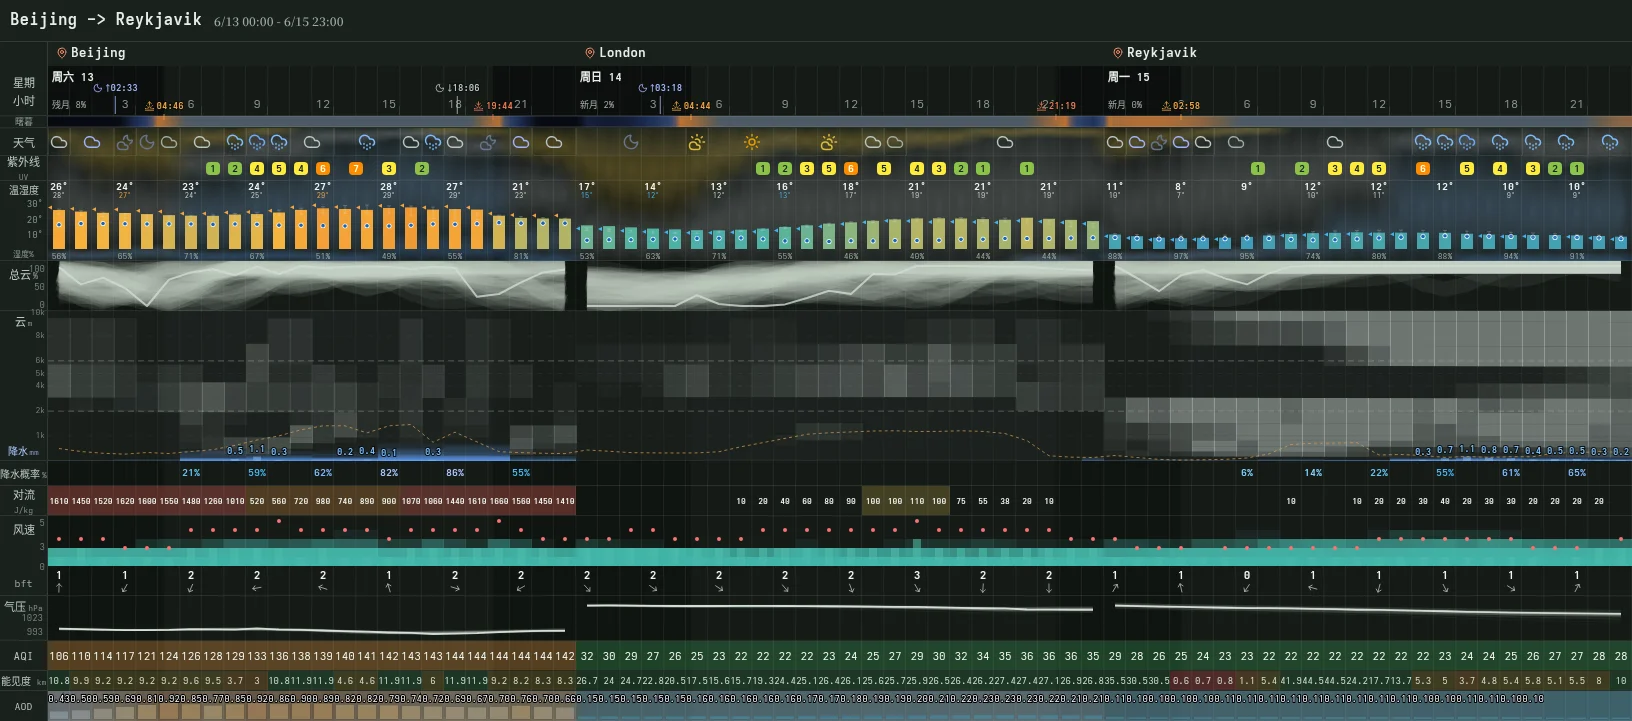
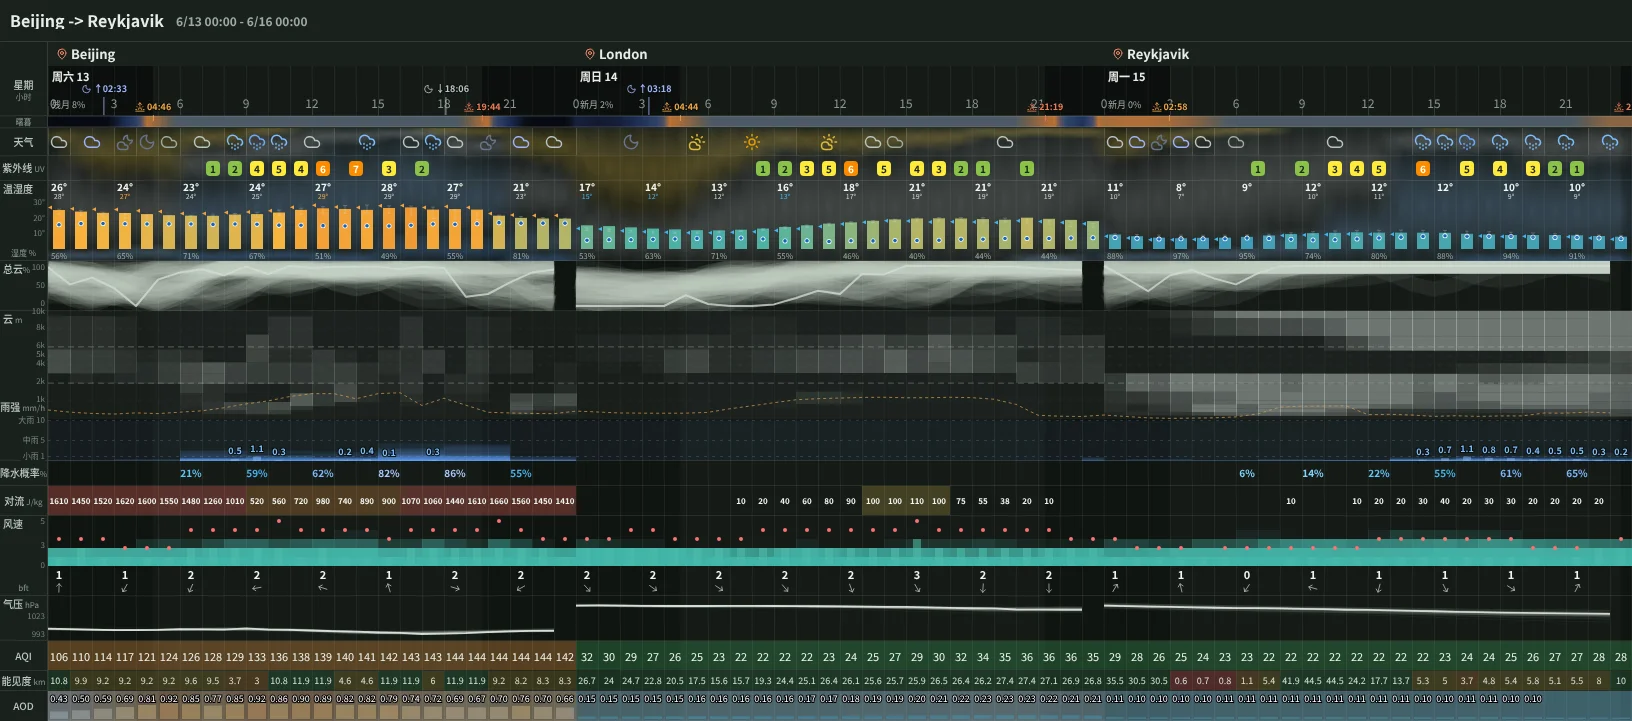
docs: update screenshot

diff --git a/scripts/capture-screenshot.ts b/scripts/capture-screenshot.ts
@@ -7,6 +7,7 @@
  *   tsx scripts/capture-screenshot.ts
  *   tsx scripts/capture-screenshot.ts --capture 72 --themes dark,light
  *   tsx scripts/capture-screenshot.ts --capture 48 --theme dark --output demo.webp
+ *   tsx scripts/capture-screenshot.ts --features 0
  */
 
 import { resolve, dirname } from 'node:path';
@@ -40,6 +41,8 @@ const captureHours = Number(readArg('capture') ?? '72');
 const portStr = readArg('port') ?? '0';
 const outputName = readArg('output');
 const viewport = readArg('viewport') ?? '1920x1080';
+const includeFeatureScreenshots =
+  readArg('features') !== '0' && outputName == null && fixtureName === 'default';
 
 // Determine which themes to generate
 const themeArg = readArg('theme');
@@ -95,6 +98,94 @@ async function pngToWebpInBrowser(page: Page, pngBuf: Buffer): Promise<Buffer> {
   return Buffer.from(bytes);
 }
 
+function saveWebp(output: string, image: Buffer): void {
+  const outPath = resolve(__dirname, '..', output);
+  writeFileSync(outPath, image);
+  console.log(`  Saved: ${outPath}`);
+}
+
+const FEATURE_VIEWPORT = { width: 1440, height: 900 };
+
+const CITY_COORDINATES: Record<string, { latitude: number; longitude: number }> = {
+  Beijing: { latitude: 39.9042, longitude: 116.4074 },
+  London: { latitude: 51.5074, longitude: -0.1278 },
+  Reykjavik: { latitude: 64.1466, longitude: -21.9426 },
+  Tokyo: { latitude: 35.6762, longitude: 139.6503 },
+};
+
+const CLOUD_LEVELS = [
+  { pressure: 1000, altitude: 36, cover: [0, 0, 5, 10, 15, 10, 5, 0, 0, 0, 0] },
+  { pressure: 975, altitude: 259, cover: [5, 10, 20, 35, 50, 70, 80, 65, 35, 10, 0] },
+  { pressure: 950, altitude: 487, cover: [10, 15, 30, 55, 75, 90, 95, 75, 45, 20, 5] },
+  { pressure: 925, altitude: 721, cover: [5, 20, 45, 70, 90, 95, 85, 60, 35, 15, 5] },
+  { pressure: 900, altitude: 959, cover: [0, 10, 35, 60, 80, 90, 75, 45, 20, 5, 0] },
+  { pressure: 850, altitude: 1452, cover: [0, 5, 20, 40, 60, 75, 55, 30, 10, 0, 0] },
+  { pressure: 800, altitude: 1967, cover: [0, 0, 5, 15, 30, 45, 55, 45, 25, 10, 0] },
+  { pressure: 700, altitude: 3077, cover: [0, 0, 5, 15, 35, 55, 75, 90, 80, 50, 20] },
+  { pressure: 600, altitude: 4315, cover: [5, 10, 20, 35, 55, 70, 85, 95, 90, 70, 45] },
+  { pressure: 500, altitude: 5731, cover: [20, 30, 45, 60, 75, 85, 90, 85, 70, 50, 30] },
+  { pressure: 400, altitude: 7396, cover: [35, 45, 55, 65, 70, 75, 80, 85, 90, 85, 70] },
+  { pressure: 300, altitude: 9431, cover: [55, 60, 65, 70, 75, 80, 85, 90, 95, 90, 80] },
+  { pressure: 250, altitude: 10650, cover: [45, 50, 55, 65, 75, 85, 90, 90, 85, 75, 60] },
+  { pressure: 200, altitude: 12077, cover: [20, 25, 35, 45, 60, 70, 75, 70, 60, 45, 30] },
+] as const;
+
+function sunCloudFixtureResponse(): unknown[] {
+  return Array.from({ length: 11 }, (_, index) => {
+    const hourly: Record<string, Array<string | number>> = {
+      time: ['2026-06-13T05:00'],
+      cloud_cover_low: [
+        Math.max(...CLOUD_LEVELS.slice(0, 6).map((level) => level.cover[index] ?? 0)),
+      ],
+      cloud_cover_mid: [
+        Math.max(...CLOUD_LEVELS.slice(6, 10).map((level) => level.cover[index] ?? 0)),
+      ],
+      cloud_cover_high: [
+        Math.max(...CLOUD_LEVELS.slice(10).map((level) => level.cover[index] ?? 0)),
+      ],
+    };
+
+    for (const level of CLOUD_LEVELS) {
+      hourly[`cloud_cover_${level.pressure}hPa`] = [level.cover[index] ?? 0];
+      hourly[`geopotential_height_${level.pressure}hPa`] = [level.altitude];
+    }
+
+    return {
+      latitude: 39.9042 + index * 0.08,
+      longitude: 116.4074 + index * 0.22,
+      utc_offset_seconds: 8 * 60 * 60,
+      hourly,
+    };
+  });
+}
+
+async function installFeatureScreenshotRoutes(page: Page): Promise<void> {
+  await page.route('**/fixtures/*.json', async (route) => {
+    const response = await route.fetch();
+    const fixture = (await response.json()) as {
+      points?: Array<{
+        cityName?: string;
+        latitude?: number;
+        longitude?: number;
+      }>;
+    };
+
+    for (const point of fixture.points ?? []) {
+      if (!point.cityName) continue;
+      const coordinates = CITY_COORDINATES[point.cityName];
+      if (!coordinates) continue;
+      point.latitude ??= coordinates.latitude;
+      point.longitude ??= coordinates.longitude;
+    }
+
+    await route.fulfill({ response, json: fixture });
+  });
+
+  await page.route(/https:\/\/api\.open-meteo\.com\/v1\/forecast/, async (route) => {
+    await route.fulfill({ json: sunCloudFixtureResponse() });
+  });
+}
+
 // ---------------------------------------------------------------------------
 // Main
 // ---------------------------------------------------------------------------
@@ -137,6 +228,34 @@ async function captureTheme(theme: string, serverPort: number): Promise<void> {
   console.log(`  [${theme}] Saved: ${outPath}`);
 }
 
+async function captureFeatureScreenshots(theme: string, serverPort: number): Promise<void> {
+  const browser = await chromium.launch();
+  const page = await browser.newPage({ viewport: FEATURE_VIEWPORT });
+  await installFeatureScreenshotRoutes(page);
+
+  const url = `http://localhost:${serverPort}/?fixture=${encodeURIComponent(fixtureName)}&theme=${theme}`;
+  console.log(`  [${theme}] Opening feature gallery: ${url}`);
+  await page.goto(url, { waitUntil: 'networkidle' });
+  await page.locator('.lanes-container').waitFor({ timeout: 30000 });
+  await page.waitForTimeout(500);
+
+  await page.getByRole('button', { name: '打开 Beijing 12:00 的 Skew-T' }).click();
+  await page.locator('.sounding-drawer:not(.sun-cloud-drawer)').waitFor({ timeout: 10000 });
+  await page.waitForTimeout(250);
+  const soundingPng = await page.screenshot({ type: 'png' });
+  saveWebp(`feature-sounding-${theme}.webp`, await pngToWebpInBrowser(page, soundingPng));
+
+  await page.getByRole('button', { name: '关闭 Skew-T', exact: true }).click();
+  await page.locator('.sounding-drawer').waitFor({ state: 'hidden', timeout: 10000 });
+  await page.getByRole('button', { name: '打开日出方向云况剖面' }).first().click();
+  await page.locator('.sun-cloud-canvas-wrap canvas').waitFor({ timeout: 10000 });
+  await page.waitForTimeout(250);
+  const sunCloudPng = await page.screenshot({ type: 'png' });
+  saveWebp(`feature-sun-cloud-${theme}.webp`, await pngToWebpInBrowser(page, sunCloudPng));
+
+  await browser.close();
+}
+
 async function main() {
   console.log(`Capturing ${captureHours}-hour fixture "${fixtureName}" for: ${themes.join(', ')}`);
 
@@ -150,6 +269,9 @@ async function main() {
 
   for (const theme of themes) {
     await captureTheme(theme, serverPort);
+    if (includeFeatureScreenshots) {
+      await captureFeatureScreenshots(theme, serverPort);
+    }
     console.log();
   }
 

diff --git a/README.md b/README.md
@@ -14,6 +14,40 @@ The focus is on **information density** — ensemble forecasts, CAPE, cloud laye
 
 重点在于**信息密度**——集合预报、CAPE、云层分层、气压场，全部堆在一条可以横向滚动的时间轴上。
 
+## Screenshots / 界面截图
+
+### Multi-city forecast timeline / 多城市预报时间轴
+
+<picture>
+  <source media="(prefers-color-scheme: dark)" srcset="./demo-dark.webp">
+  <source media="(prefers-color-scheme: light)" srcset="./demo-light.webp">
+  <img alt="A dense multi-city weather forecast timeline" src="./demo-light.webp">
+</picture>
+
+### Cloud layers and Skew-T sounding / 云层与 Skew-T 探空
+
+Click any hour in the cloud lane to inspect the vertical cloud profile and thermodynamic sounding.
+
+点击云层区域中的任一小时，可以查看垂直云层分布和热力学探空图。
+
+<picture>
+  <source media="(prefers-color-scheme: dark)" srcset="./feature-sounding-dark.webp">
+  <source media="(prefers-color-scheme: light)" srcset="./feature-sounding-light.webp">
+  <img alt="Cloud-layer detail and Skew-T sounding drawer" src="./feature-sounding-light.webp">
+</picture>
+
+### Sunrise and sunset cloud cross-section / 日出日落方向云况剖面
+
+Click a sunrise or sunset marker to look along the solar bearing; drag vertically to move through twilight and inspect the light path through cloud layers.
+
+点击日出或日落标记，可以沿太阳方位查看云层剖面；在图上纵向拖动可调整时刻，观察曙暮光线穿过不同云层的路径。
+
+<picture>
+  <source media="(prefers-color-scheme: dark)" srcset="./feature-sun-cloud-dark.webp">
+  <source media="(prefers-color-scheme: light)" srcset="./feature-sun-cloud-light.webp">
+  <img alt="Sunrise-direction cloud cross-section with an interactive twilight timeline" src="./feature-sun-cloud-light.webp">
+</picture>
+
 ## Features / 主要功能
 
 - **Multi-city itinerary** — chain "Beijing 3 days → London 4 days" in one unbroken scroll
@@ -31,6 +65,9 @@ The focus is on **information density** — ensemble forecasts, CAPE, cloud laye
 - **Cloud layers** — high / mid / low clouds rendered independently
 - **云层分层** — 高 / 中 / 低云独立渲染
 
+- **Skew-T sounding detail** — click any cloud-lane hour to inspect pressure-level clouds, temperature/dew-point profiles, wind, and inversions
+- **Skew-T 探空详情** — 点击云层区域中的任一小时，查看气压层云况、温度/露点廓线、风场和逆温层
+
 - **Precipitation** — probability (%) side-by-side with volume (mm)
 - **降水** — 概率 (%) 和降水量 (mm) 并排对照
 
@@ -42,6 +79,15 @@ The focus is on **information density** — ensemble forecasts, CAPE, cloud laye
 
 - **Sunrise / sunset shading** — uses real sunrise/sunset times, not a naive 18:00–06:00 cutoff
 - **日出日落着色** — 用真实 sunrise/sunset 时间画夜间阴影，不是 18:00–06:00 一刀切
+
+- **Sun-path cloud cross-section** — click sunrise/sunset markers to inspect cloud layers along the solar bearing, with a draggable twilight timeline
+- **太阳方向云况剖面** — 点击日出/日落标记，沿太阳方位查看云层，并通过可拖动的曙暮时间轴调整时刻
+
+- **Air quality and aerosols** — AQI, estimated visibility, and aerosol optical depth share the same trip timeline
+- **空气质量与气溶胶** — AQI、估算能见度和气溶胶光学厚度与行程天气显示在同一条时间轴上
+
+- **Screenshot export** — select and resize a timeline range, then export the complete chart as PNG
+- **截图导出** — 在时间轴上选择并调整范围，然后导出完整 PNG 图表
 
 - **Compact mode** — `?compact=1` collapses low-priority lanes (temperature, clouds, CAPE, pressure) into a dense single-scroll view; precipitation shows volume bars & wind shows Beaufort + arrow per cell
 - **紧凑模式** — `?compact=1` 折叠温度、云层、CAPE、气压等次要图表，降水显示量级条、风力显示蒲福级+风向箭头；适合快速扫视
@@ -141,6 +187,16 @@ pnpm dev
 Open the URL printed in the terminal (usually `localhost:5174`). Add `?route=...` to the address bar to switch cities.
 
 打开终端输出的地址（一般是 `localhost:5174`），在地址栏加 `?route=...` 就能切换城市。
+
+### Update README screenshots / 更新 README 截图
+
+```bash
+pnpm demo:update
+```
+
+This regenerates the overview, sounding, and sun-path screenshots in both light and dark themes from `fixtures/default.json`. The sun-path capture uses a deterministic response inside the screenshot script, so it does not depend on live forecast availability. Pass `--features 0` to `scripts/capture-screenshot.ts` when only the overview pair is needed.
+
+该命令会基于 `fixtures/default.json` 重新生成亮色、暗色两套总览图、探空图和太阳方向云况剖面。太阳剖面在截图脚本中使用固定响应，不依赖实时预报是否可用；如果只需生成总览图，可以给 `scripts/capture-screenshot.ts` 传入 `--features 0`。
 
 ### Test QWeather BYOK locally / 本地测试和风 BYOK
 
